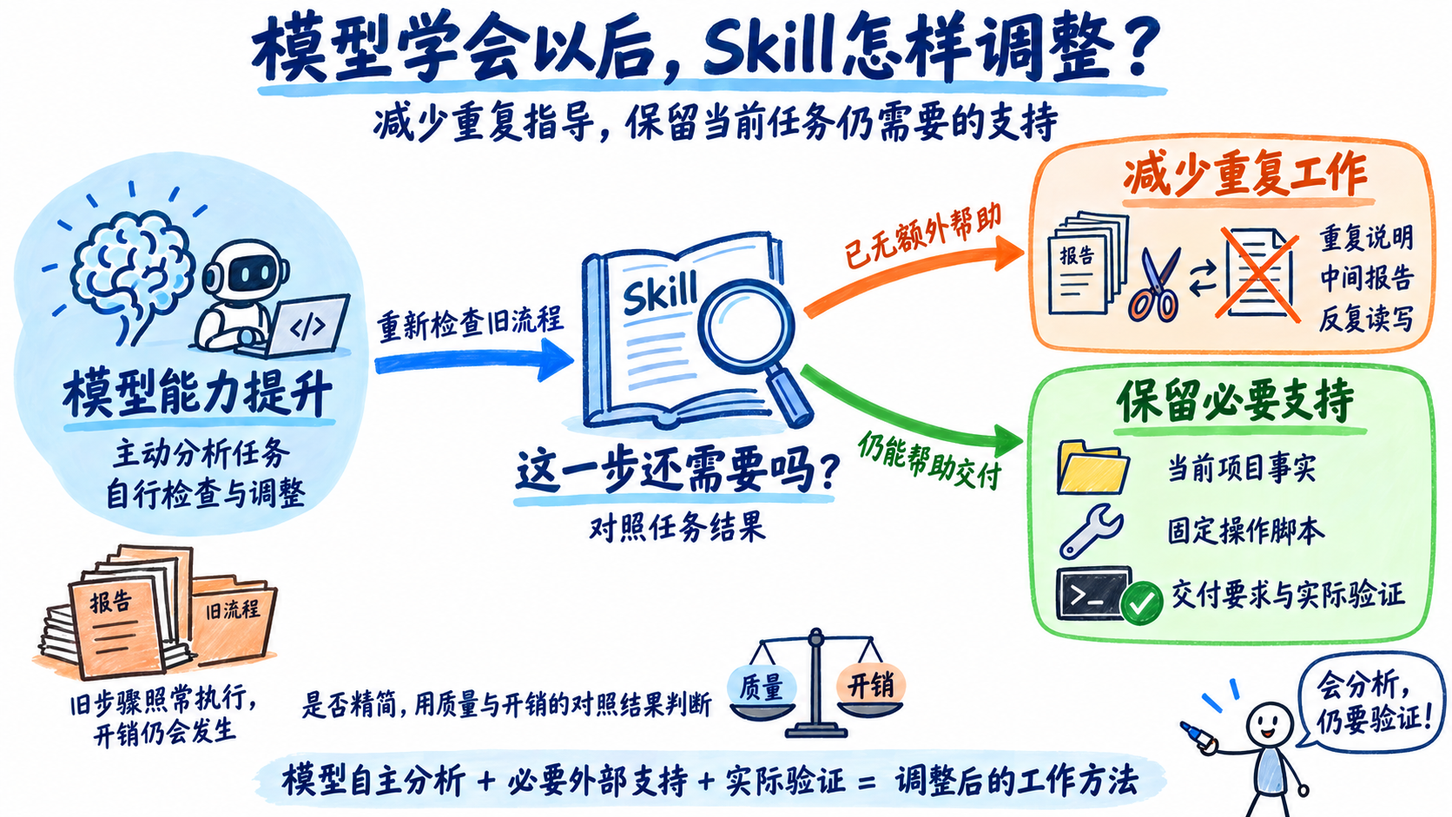
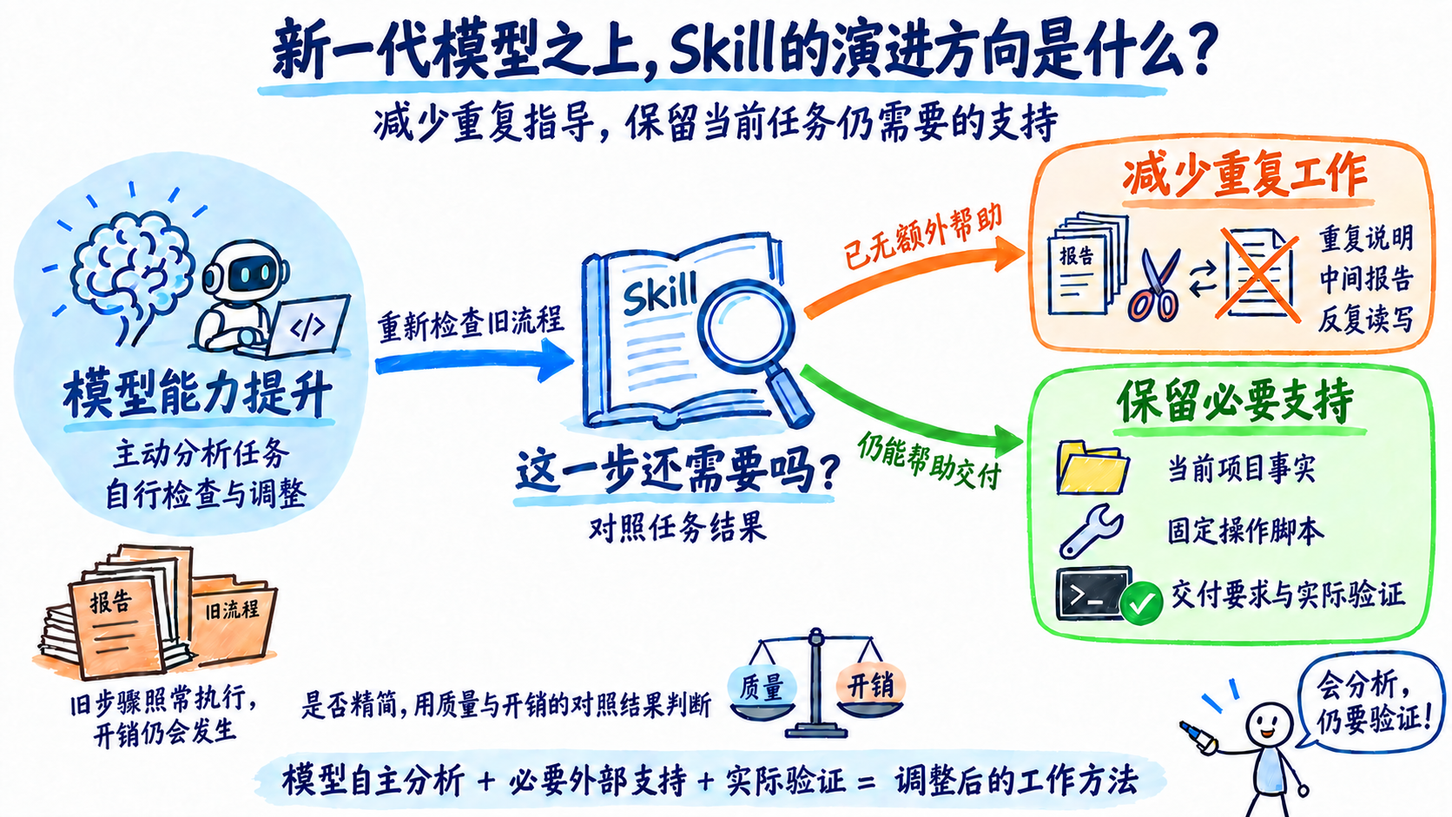
update index

diff --git a/index.md b/index.md
@@ -1,0 +1,189 @@
+---
+title: "当模型比你更懂流程：别让旧Skill成为AI的“赛博枷锁”？"
+date: 2026-09-07
+description: "从存量代码补齐UT的三组实测出发，讨论Skill规则的增量价值、流程成本，以及如何用数据集支撑持续进化。"
+status: ready
+slug: "skill-self-evolution"
+---
+
+随着Fable 5、5.1和GPT-6 Astra相继发布，Skill的维护开始面临一个变化：模型能够自行完成的工作越来越多，以前为旧模型补齐能力的流程说明，需要重新检查。**当模型已经能判断下一步怎么做，Skill里仍然写死的逐步流程，就可能从经验积累变成每次执行都要支付的成本。**
+
+官方的提示指南已经明确提出了这个问题。Anthropic在[Fable 5提示指南](https://platform.claude.com/docs/en/build-with-claude/prompt-engineering/prompting-claude-fable-5#recommended-scaffolding-changes)中指出，为旧模型开发的Skill往往规定得过细，可能降低输出质量；如果模型默认表现更好，就应考虑移除旧指令。OpenAI在[GPT-6 Astra使用指南](https://developers.openai.com/api/docs/guides/latest-model#instruction-following)中也建议审查Skill和AGENTS.md：Astra对这些文件里的指令更敏感，模糊或冲突的要求可能让它提前停下来，阻断本来可以继续完成的工作。
+
+这背后有两种变化：模型更能自行组织工作，也更认真地执行外部约束。过去为了防止遗漏而写下的全量预读、逐步汇报和固定验证轮次，即使在当前任务中没有必要，也可能被完整执行。例如，一次局部修改本来只需读取相关文件、运行受影响的测试，旧规则却可能要求它重新梳理整个项目、更新中间报告，再跑一遍全量测试。流程照常完成，额外的质量收益却需要重新证明。
+
+因此，模型升级后，Skill需要持续判断哪些指导已经多余，哪些项目事实、工具和交付约束仍然必要。删掉一条规则，结果会不会变差？保留一个步骤，减少的失败和返工能否抵得上它的执行成本？只有把这些问题放回实际任务中验证，Skill才能随着模型和环境变化持续演进。
+
+![模型能力提升后重新检查旧Skill，精简失去额外帮助的重复工作，保留项目事实、脚本与实际验证。](assets/01-model-skill-boundary-whiteboard.png)
+
+*图1：模型学会更多工作后，旧流程仍会产生开销。通过任务结果判断哪些步骤可以精简，哪些支持仍需保留。*
+
+围绕规则的增量价值，我们选择了单元测试Skill——[optimizing-java-unit-tests](https://agent.huawei.com/ai/skills/optimizing-java-unit-tests?version=0.0.1&publisherId=2018530071504031746)，在GLM-5.2上进行评测与自优化。实验以Skill优化前后的对比为主，同时设置无Skill组，观察模型不加载额外Skill指导时的表现。三组各覆盖相同的140个任务。优化后Skill减少重复说明和中间报告，将固定操作整合为脚本，并补充交付前的检查要求。相对优化前Skill，累计Token下降67.9%，平均任务耗时下降40.2%，整体质量评分从93.68变为94.03。这组结果支持在当前模型下精简部分旧流程；模型升级前后的收益变化，还需要跨版本对照来检验。
+
+## 实验背景与研究问题
+
+optimizing-java-unit-tests最初针对GLM-4.7-AWQ适配，用于给存量代码补齐单元测试（UT），目标是提升开发者测试生成效率，完善DT有效性分析与修复能力。为此，Skill将测试生成、有效性分析、修复和验证组织为既定流程。本次实验在GLM-5.2上重新评估这套流程，根据运行反馈优化Skill，并通过无Skill、优化前Skill和优化后Skill三组对照，比较质量与执行成本。
+
+新版删减了部分通用流程说明和中间报告，把源码与环境信息获取、编译运行等固定操作整合为脚本，再根据运行失败补充交付约束。人工与模型一起分析运行中暴露的问题，修改Skill，再比较新旧版本的质量和开销，保留有效改动。Skill通过这样的反复迭代，逐步减少重复工作、补齐必要要求，形成适合当前模型的工作方法。
+
+三组实验使用相同的模型和任务集，比较不同Skill配置下的质量与执行成本。
+
+| 项目 | 设置 |
+| --- | --- |
+| 被测模型 | GLM-5.2 |
+| 执行平台 | 九问iCode |
+| 被测Skill | [optimizing-java-unit-tests](https://agent.huawei.com/ai/skills/optimizing-java-unit-tests?version=0.0.1&publisherId=2018530071504031746)，用于存量代码UT补齐任务 |
+| 对照分组 | 无Skill（模型基线）、优化前Skill（旧版）、优化后Skill（新版） |
+| 任务集 | 每组覆盖相同的7个项目、140个对应任务 |
+| 质量评估 | 使用CodeBench评估测试质量 |
+| 成本指标 | 累计会话Token、平均任务耗时 |
+
+各组的具体配置如下：
+
+- **无Skill（模型基线）**：不加载额外Skill指导，由模型自行组织分析、生成和验证，用于观察模型在当前执行平台与任务集上的自主完成能力。
+- **优化前Skill（旧版）**：加载本轮优化前的Skill，按既定流程完成测试生成、有效性分析、修复和重新验证，作为评估优化效果的参照。
+- **优化后Skill（新版）**：加载经过本轮调整的Skill，精简重复说明和中间报告，将固定操作整合为脚本，并补充交付检查要求。
+
+通过比较三组结果，可以观察Skill带来的质量收益和执行成本，以及流程调整后的变化。在此基础上，再讨论如何把这次优化中的做法用于Skill的持续迭代。实验围绕以下三个问题展开：
+
+- RQ1：优化前Skill相比模型基线，带来了哪些收益与开销？
+- RQ2：Skill优化前后，质量与成本发生了什么变化？
+- RQ3：如何构建可复用于其他Skill的自进化流程？
+
+## RQ1：优化前Skill相比模型基线，带来了哪些收益与开销？
+
+> RA1：使用优化前Skill时，整体报告评分比无Skill基线高4.84分，平均Token约为基线的6.2倍，耗时约为2.9倍。不同任务组从原有流程中获得的收益并不一致，因此需要结合任务表现，决定哪些步骤应当保留、哪些可以精简。
+
+### 优化前Skill提高了整体评分，也增加了执行开销
+
+| 条件 | 整体质量评分（报告值） | 平均每任务Token | 平均任务耗时 |
+| --- | ---: | ---: | ---: |
+| 无Skill（模型基线） | 88.84 | 62.3万 | 12.5分钟 |
+| 优化前Skill | 93.68 | 387.6万 | 35.7分钟 |
+
+使用优化前Skill时，整体评分比无Skill基线高4.84分，平均每任务多消耗约325.3万Token、多用约23.2分钟。原有Skill带来了质量收益，同时也增加了完成任务所需的开销。
+
+这部分额外开销带来的质量收益，在不同任务组中有明显差别。把Apollo和MyBatis-3两组任务单独拿出来看：
+
+| 任务组 | 无Skill评分（报告值） | 优化前Skill评分（报告值） | 无Skill平均Token | 优化前Skill平均Token |
+| --- | ---: | ---: | ---: | ---: |
+| Apollo | 96.94 | 96.70 | 74.7万 | 380.7万 |
+| MyBatis-3 | 89.73 | 95.29 | 61.1万 | 354.0万 |
+
+Apollo组中，模型在无Skill条件下已经取得较高评分，使用优化前Skill后，Token消耗约为基线的5.1倍，没有观察到评分增加。MyBatis-3组中，使用优化前Skill时的评分则比基线高5.56分。同一套流程在不同任务组里带来了不同的收益，Skill可以据此调整支持的范围与深度，把额外投入用在更需要帮助的任务上。
+
+同一条规则是否有用，要看模型已经会什么，以及当前任务还需要哪些帮助。例如，模型已经熟悉项目的代码组织方式，就可以少读一些相关说明；遇到陌生的依赖关系时，明确的项目约定则能帮助它减少试错。模型能力、任务要求或工具发生变化后，原来需要反复提醒的步骤，也可能有了精简的空间。
+
+### 每条规则都在用执行成本购买某种收益
+
+规则带来的收益，可能是提高产物质量，也可能是减少失败、返工或人工复核。它的成本包括额外推理、工具往返，以及维护规则与脚本的投入。判断某一步是否值得保留，需要把它减少的损失与增加的成本放在同一任务语境下比较。
+
+例如，同样是写报告，如果只是重述当前上下文里的结论，就可以考虑省去；如果下一阶段在独立会话中执行，报告就承担了信息交接的作用。读取文件也是如此：内容没有变化时可以复用，文件修改或上下文丢失后则可能需要重新读取。删减步骤前，要先看清它在什么情况下有用，省去后会影响什么。
+
+增加规则时，也需要判断它在什么情况下有用。一次失败可能来自暂时的环境故障，也可能只发生在某类任务中。如果每次失败后都加一条要求所有任务执行的规则，Skill就会越来越繁琐。因此，遇到失败后应先找出原因：环境问题优先修复环境，只影响某类任务的问题则增加相应的处理条件，让额外步骤在需要时才执行。
+
+确定哪些步骤可以精简、哪些要求需要补充后，就需要修改Skill，并检查实际执行效果。
+
+## RQ2：Skill优化前后，质量与成本发生了什么变化？
+
+> RA2：这轮优化从运行中的重复工作入手，精简说明和报告，把固定操作整合为脚本，并根据失败反馈补齐交付检查。完成调整后，新版相对旧版的累计会话Token下降67.9%，平均耗时下降40.2%，整体评分从93.68变为94.03，在更低的执行开销下取得了接近的整体评分。
+
+### 从执行记录中定位重复工作
+
+旧版已经把生成、分析、修复和验证串成完整流程。投入运行后，人工与模型结合执行记录和运行结果，发现了几类可以调整的工作：同一份源码被重复读取，中间报告需要反复写入和维护，部分固定验证轮次没有带来有效变化。优化从这些具体问题入手，逐步修改流程说明、配套脚本和交付要求，再通过评测检查改版效果。
+
+### 精简重复说明和中间报告
+
+针对反复加载流程说明、维护中间产物的负担，新版删减了部分通用流程说明和中间报告，减少固定的分析轮次，让模型按任务需要组织分析、修复和验证。
+
+这些修改针对的是会沿着会话累积的成本。Skill说明进入会话后，还可能被后续调用反复带入；一份报告写完后，也可能由下一阶段读取，并作为历史上下文保留。省去重复说明和报告，既减少当轮的生成和读写操作，也减少后续多轮调用中的重复输入。
+
+### 用脚本复用固定操作，减少模型的重复工作
+
+删减文字说明后，获取项目资料、组织编译和测试命令的工作仍然存在。以运行测试为例，模型原来需要先确认项目怎样构建、目标测试怎样启动，再组织命令执行。新版把这类操作写进脚本，模型调用验证脚本即可执行编译和测试；读取源码、测试代码和构建信息，也由配套脚本集中完成。
+
+这样，同一套执行方法写成脚本后，就能在后续任务中反复使用，减少模型每次查找信息、组织命令所需的推理和工具调用。模型仍需判断应该补哪些测试、失败是什么原因、代码该怎样修改，脚本则负责执行其中做法相对固定的操作。
+
+为了让模型能继续分析和修复问题，脚本需要返回足够清楚的执行结果。除了报告目标测试是否实际执行，还应说明检查范围，并在失败时返回出错阶段和相关错误信息。如果只给出笼统的成功或失败标志，模型就难以判断下一步应该修改代码、调整测试，还是处理运行环境问题。
+
+### 根据运行失败补齐交付检查
+
+流程精简后，部分任务出现了编译失败或平台运行异常。新版据此补充了交付前的检查要求：确认代码通过编译，目标测试实际运行，并检查测试结果。
+
+这一步为流程精简补上了明确的交付要求：编译和运行用于确认代码与测试能否正常执行，测试内容评估则关注覆盖是否充分、断言是否有效。模型可以自行安排完成任务的过程，但是否完成任务，仍要由这些检查结果来确认。
+
+### 在同组任务上检查改版效果
+
+完成上述调整后，新旧Skill在相同的GLM-5.2模型和140个任务上接受对照评测，由CodeBench评估测试质量，同时统计Token消耗和耗时。过程报告先呈现了执行方式的变化：
+
+| 过程指标（既有过程报告汇总） | 优化前Skill | 优化后Skill |
+| --- | ---: | ---: |
+| 顶层工具调用次数 | 9,736 | 5,326 |
+| 中间产物写入或修改次数 | 2,416 | 60 |
+| Skill入口加载次数 | 362 | 419 |
+| 每次入口加载的平均返回字符 | 22.7K | 4.9K |
+
+中间产物写入或修改次数明显减少，顶层工具调用也随之下降。新版加载Skill的次数从362次增加到419次，但每次返回的内容平均从22.7K字符缩短到4.9K字符。加载次数增加，并没有抵消单次加载内容精简带来的开销改善。
+
+原始记录中，旧版到新版减少的Token约98.3%来自输入侧。这些输入包括Skill说明、源码、工具结果和历史对话，与减少重复说明、报告及工具交互的调整方向一致。整体质量与成本的对照结果如下：
+
+| 指标 | 优化前Skill | 优化后Skill | 变化 |
+| --- | ---: | ---: | ---: |
+| 整体质量评分（报告值） | 93.68 | 94.03 | +0.35分 |
+| 累计会话Token | 5.426亿 | 1.744亿 | −67.9% |
+| 平均任务耗时 | 35.7分钟 | 21.3分钟 | −40.2% |
+
+新版平均每任务约124.5万Token，仍为无Skill组的2倍，但已明显低于旧版的387.6万Token。几类修改共同构成了这次新版Skill，上述数据反映的是整轮调整的效果，尚不能据此分配每项改动各自带来的收益。
+
+![三组质量评分、会话Token与平均耗时对比：新版开销下降，整体评分相近。](assets/02-quality-cost-comparison-whiteboard.png)
+
+*图2：无Skill为模型基线，旧版Skill与新版Skill分别对应优化前和优化后。三组使用相同的140个任务，质量由CodeBench评分，Token统计所有任务各轮调用的输入与输出总量，耗时按140个任务的执行时间取平均值。*
+
+回看这轮优化，从旧Skill建立到新版接受评测，可以归纳为能力构建、问题发现、流程精简、脚本整合、稳定性补强和评测迭代六个阶段。先让流程能够完成任务，再根据执行记录减少重复工作、整合固定操作，并针对运行失败补齐交付检查，最后用新旧版本对照检验这些调整的效果。
+
+![从构建完整流程到发现重复工作，再精简步骤、整合脚本、补充检查并评测改版效果。](assets/03-evolution-path-whiteboard.png)
+
+*图3：本轮优化的六个阶段，串起问题发现、具体修改与效果验证。*
+
+
+## RQ3：如何构建可复用于其他Skill的自进化流程？
+
+> RA3：其他Skill可以在模型升级后，沿用原有交付标准，重新比较无Skill与现行Skill的表现，再结合运行记录调整规则和脚本。模型辅助检查哪些步骤已经可以自行完成、哪些指导仍有必要，人工审核修改，并通过新旧Skill的评测决定是否采用。随着模型能力继续提升，重复这一过程，让Skill逐步调整指导的范围和执行方式。
+
+随着模型能力提升，原来需要Skill逐步指导的分析和验证工作，模型可能已经能够主动完成。其他Skill也可以在模型升级后，用同一组任务重新比较无Skill与现行Skill的表现，结合运行记录检查哪些步骤可以精简、哪些要求仍需保留，再修改Skill并比较调整后的质量与开销。
+
+### 让模型修改方法，让评测决定修改是否成立
+
+模型可以同时阅读Skill、任务要求、运行轨迹和失败结果，提出哪些规则应删减、哪些操作适合脚本化、哪些约束存在缺口。这种参与方式把模型的分析能力用到了工作方法本身。
+
+但执行方法与成功标准需要分开维护。如果候选Skill可以同时删掉测试要求、缩小测试范围，再用新的标准证明自己更快，就无法判断改进来自能力增强还是要求降低。人工应预先确定验收条件，候选版本在相同标准下接受检查。
+
+本次实验以7个项目、140个任务作为共同数据集。分析这些任务的执行记录，可以发现重复读取、报告维护和验证遗漏等具体问题，为调整Skill提供依据。修改后，再让新旧Skill完成同组任务，由CodeBench评估测试质量，并结合编译、运行结果及Token和耗时，检查调整是否减少了开销、是否影响了交付质量。评测的数据集在这个过程中起着非常关键的作用，让Skill的持续优化建立在可复查的任务表现上。
+
+### 先明确修改原因，再检查改版效果
+
+每次修改都应对应运行中发现的具体问题。例如，如果升级后的模型已经能够主动完成某项分析，旧Skill却仍要求按固定轮次重复执行，就可以尝试减少这部分步骤。修改时写清楚删了什么、为什么删，以及哪些交付检查仍需保留，便于后续检查效果。
+
+修改完成后，在升级后的模型上，让新旧Skill分别执行同一组任务，并沿用原有的交付标准。先检查任务完成情况和产物质量，再比较Token消耗与耗时。如果省去了重复工作，任务结果仍然符合要求，就可以保留改动；如果删减后出现遗漏或错误，就需要调整相关步骤，或恢复原来的做法。
+
+后续还可以留出未参与优化的任务，检查改动能否适用于其他同类场景，避免只改善已经反复分析过的样例。
+
+### 把有效改动写回Skill
+
+评测确认改动有效后，就把新的规则写回Skill，并同步更新配套脚本，让后续任务按调整后的方式执行。例如，已经验证可以省去的分析报告，就从默认流程中删除；需要保留的验证步骤，则继续写在交付要求中。更新时保留旧版，并记录使用的模型、数据集版本、修改原因和评测结果，方便后续复查或回退。
+
+![模型升级后先比较无Skill与当前Skill，再结合记录修改，通过新旧版本评测将有效改动写回Skill。](assets/04-information-lifecycle-whiteboard.png)
+
+*图4：模型升级后的Skill更新流程。先比较无Skill与当前Skill，检查原有指导是否仍有必要；修改后再比较旧版与候选版，按原有交付要求验证效果，将有效改动写回Skill。*
+
+模型再次升级后，可以从版本记录中找出为弥补旧模型不足而加入的规则，再用实际任务检查新模型是否仍然需要这些指导。如果省去某些步骤后仍能达到交付要求，就把精简后的流程写回Skill。这样，后续任务就能少做已经不再需要的重复工作。
+
+## 结语：让skill进化跟上模型的进步
+
+这次单元测试优化通过精简流程、整合脚本和补充交付检查，在整体评分相近的情况下，让累计Token下降67.9%、平均耗时下降40.2%。这些结果让我们看到，围绕模型建立的工作流程，本身也有持续优化的空间。
+
+一条规则记录的，既有工程师的经验，也有模型当时的能力局限。模型学会某项工作后，重复指导的收益会降低，但规则要求的报告、读取和工具调用仍会继续发生。过去帮助模型完成任务的步骤，就可能成为今天的额外负担。模型升级后，已有流程也需要重新证明自己的价值。省去这些多余步骤，模型就能少做重复工作，减少完成任务所需的时间和Token。
+
+随着模型能够自行组织更多工作，Skill可以逐步减少对分析顺序和固定轮次的规定，把任务要求、工具接口和交付检查写得更清楚。有了明确的交付要求和可靠的评测，就可以让模型更灵活地选择做法。流程可以随着模型进步而调整，交付质量仍由同一套标准衡量。
+
+这次实践中，运行记录和评测结果被用于修改Skill，经过验证的改动再写回流程，供后续任务使用。持续进化还需要把真实任务、失败案例和验收要求沉淀为可复用的数据集，让每次修改都有具体的问题来源和验证依据。随着模型进步，过去需要逐步指导的工作可以更多地交给模型，工程师则把精力放在明确要求、维护数据集、完善工具和验证结果上。Skill自进化最终要沉淀的，是持续检验和更新工程经验的能力，让积累下来的方法跟得上模型的进步。

diff --git a/prompts/01-model-skill-boundary.md b/prompts/01-model-skill-boundary.md
@@ -1,10 +1,10 @@
-# 图1：模型能力提升后，旧Skill怎样调整
+# 图1：新一代模型之上，Skill的演进方向是什么？
 
 对应正文开篇：模型能够主动完成更多工作后，旧流程的重复指导仍会带来报告、读取和工具调用开销；通过任务结果判断哪些可以精简，同时保留当前事实、工具和交付验证。
 
 发布文件：`assets/01-model-skill-boundary-whiteboard.png`。使用whiteboard-infographic技能组织提示词，再通过内置imagegen生成。图2至图4本轮只移除左上角编号，内容后续分别调整。
 
-生成一张"专家白板教学"风格的手绘信息图，主题：模型学会以后，Skill怎样调整——减少重复指导，保留当前任务仍需要的支持。横版16:9，干净白色白板背景，适合中文技术文章开篇的机制配图。
+生成一张"专家白板教学"风格的手绘信息图，主题：新一代模型之上，Skill的演进方向是什么？——减少重复指导，保留当前任务仍需要的支持。横版16:9，干净白色白板背景，适合中文技术文章开篇的机制配图。
 
 **视觉元素：** 使用真实马克笔手绘质感的粗细不均线条、少量浅色填充、手绘箭头和简笔画图标。以一条从左到右、在中间分叉的叙事路径组织画面：模型能力提升→重新检查旧流程→精简重复工作 / 保留必要支持。使用深蓝色正文、蓝色能力区域、橙色精简区域、绿色保留区域。避免均匀排列的六块文字卡片，图标和连线要实际解释因果与分工。所有文字为清晰的简体中文，Skill和Token保留英文。不出现图号、步骤编号、左上角序号、英文角标、logo、水印。
 
@@ -20,6 +20,6 @@
 
 **画面右下角：** 在主内容区之外预留空白，画一个小型简笔画火柴人老师拿着马克笔指向绿色区域，旁边气泡写“会分析，仍要验证！”。人物和气泡不能遮挡绿色区域或底部文字。
 
-**文字：** 使用清晰可辨的真实手写风格，深色高对比，大标题“模型学会以后，Skill怎样调整？”，副标题“减少重复指导，保留当前任务仍需要的支持”。标题直接占据顶部，不加任何序号或英文眉题。底部写“模型自主分析 + 必要外部支持 + 实际验证 = 调整后的工作方法”。不要添加未指定的说明段落和实验统计数字。
+**文字：** 使用清晰可辨的真实手写风格，深色高对比，大标题“新一代模型之上，Skill的演进方向是什么？”，副标题“减少重复指导，保留当前任务仍需要的支持”。标题直接占据顶部，不加任何序号或英文眉题。底部写“模型自主分析 + 必要外部支持 + 实际验证 = 调整后的工作方法”。不要添加未指定的说明段落和实验统计数字。
 
 **内容结构：** 左侧能力提升，中部检查旧Skill，右侧上下分叉，底部解释依据。箭头有清楚的起止点和关系标注，不穿过文字和图标。三条主要箭头之外不添加装饰连接线。留白30%以上，像专家在白板上解释开篇论证，整体干净、专业。图中文字必须100%清晰可读，无模糊、无重叠，高对比度。
